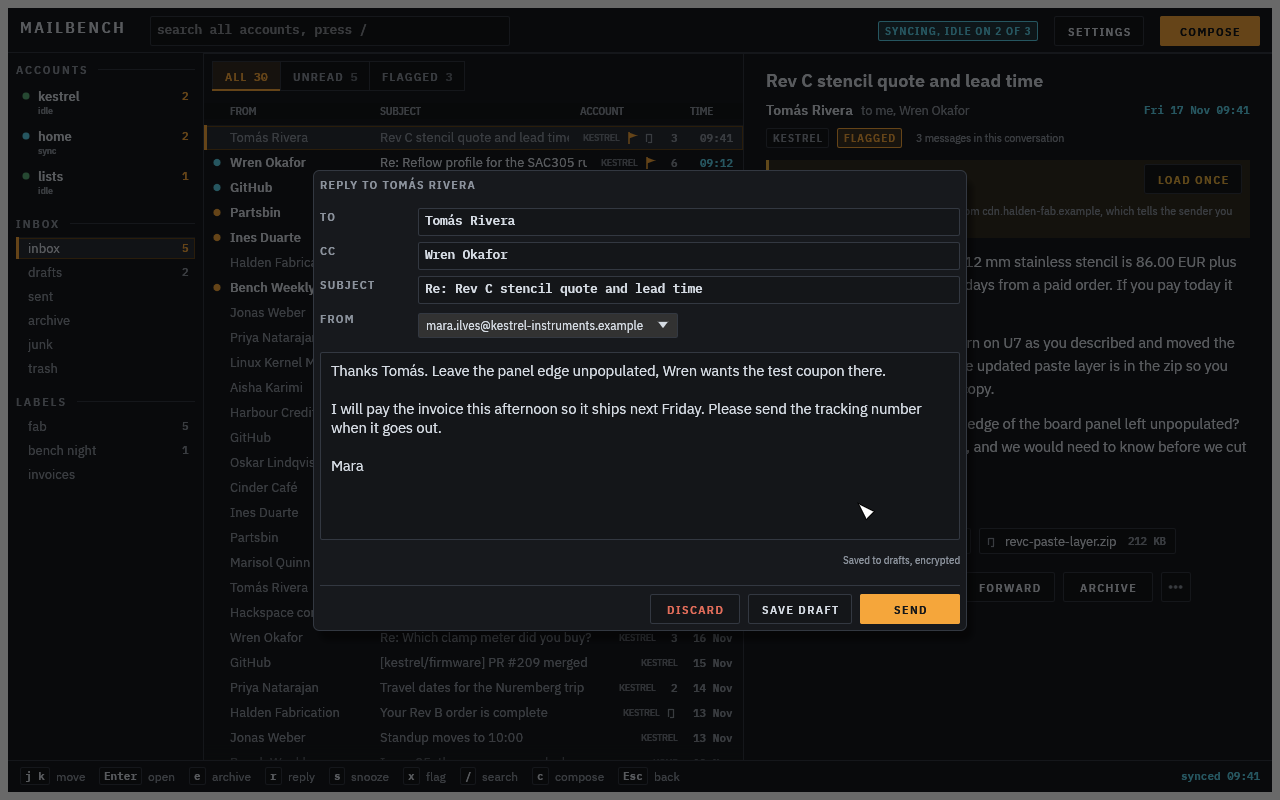
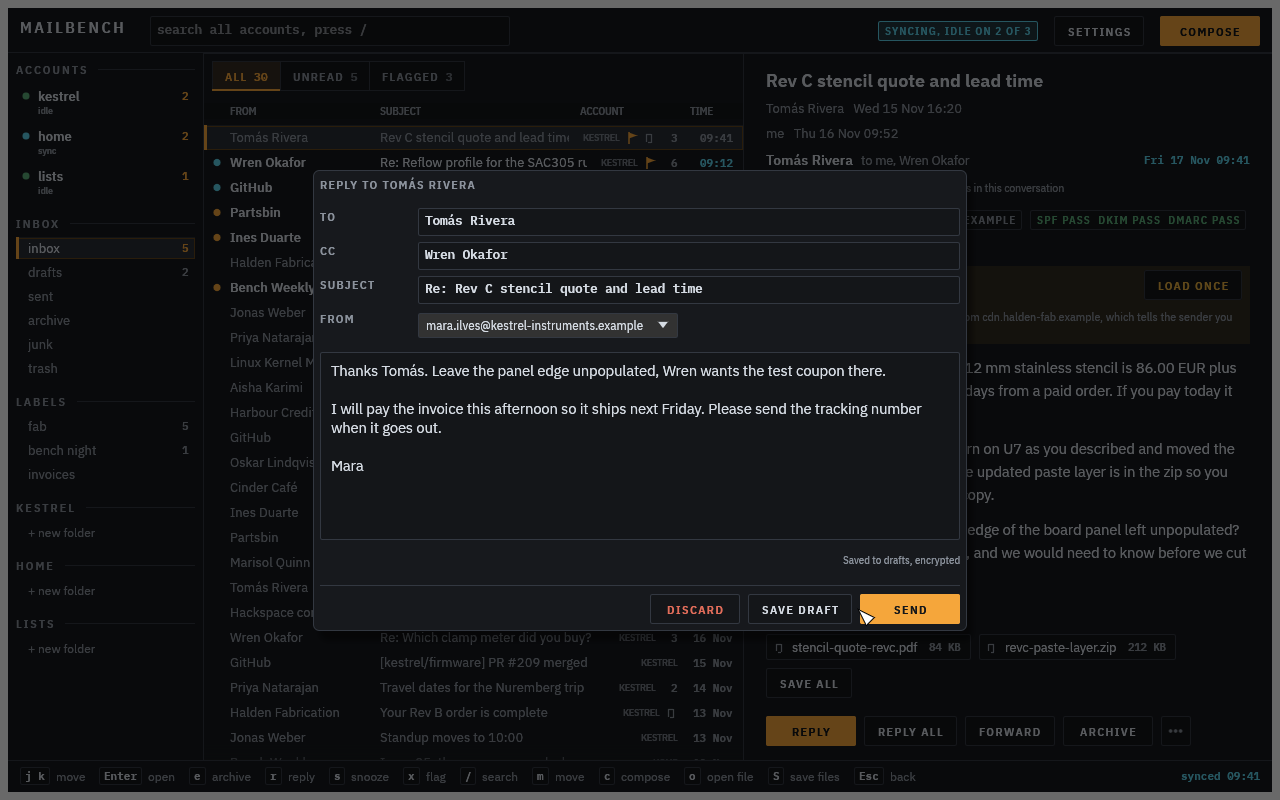
Move a thread with m

diff --git a/tests/real_store.rs b/tests/real_store.rs
@@ -2,7 +2,7 @@ use egui_kittest::kittest::Queryable;
 use egui_kittest::Harness;
 use mailbench::app::App;
 use mailbench::backend::*;
-use mailbench::mailstore::{self as ms, Query};
+use mailbench::mailstore::{self as ms, MailStore, Query};
 use mailbench::real::{AccountSetup, RealStore};
 use mailbench::runtime::block_on;
 use mailbench::store::{KdfParams, Store, Unlock};
